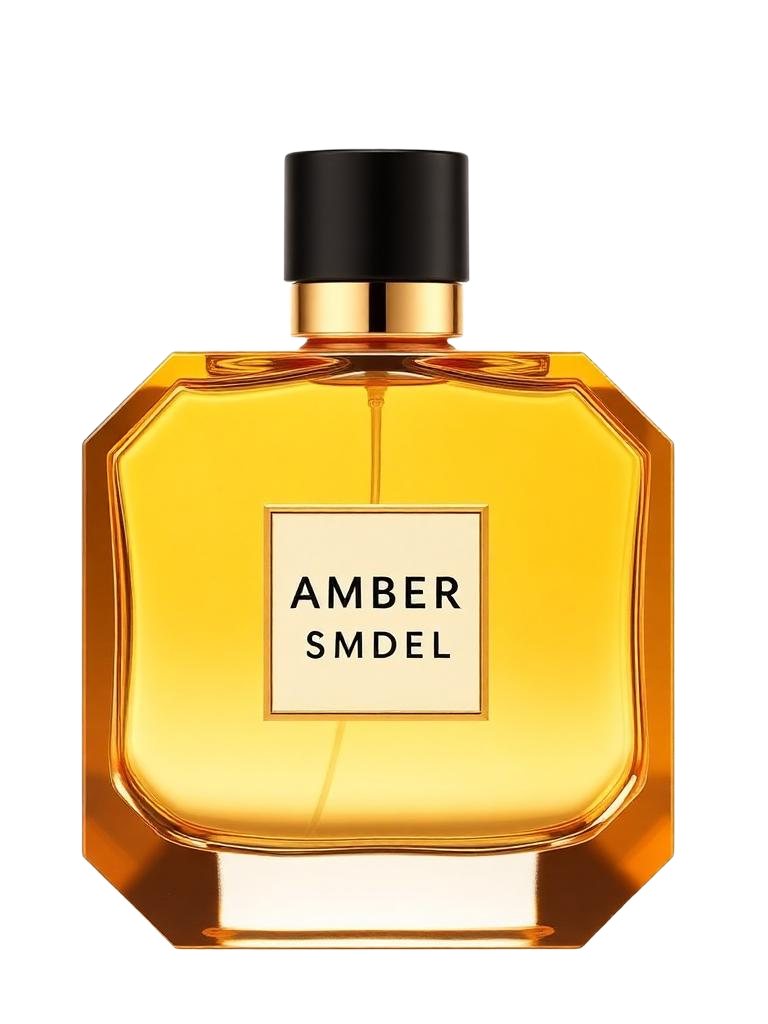
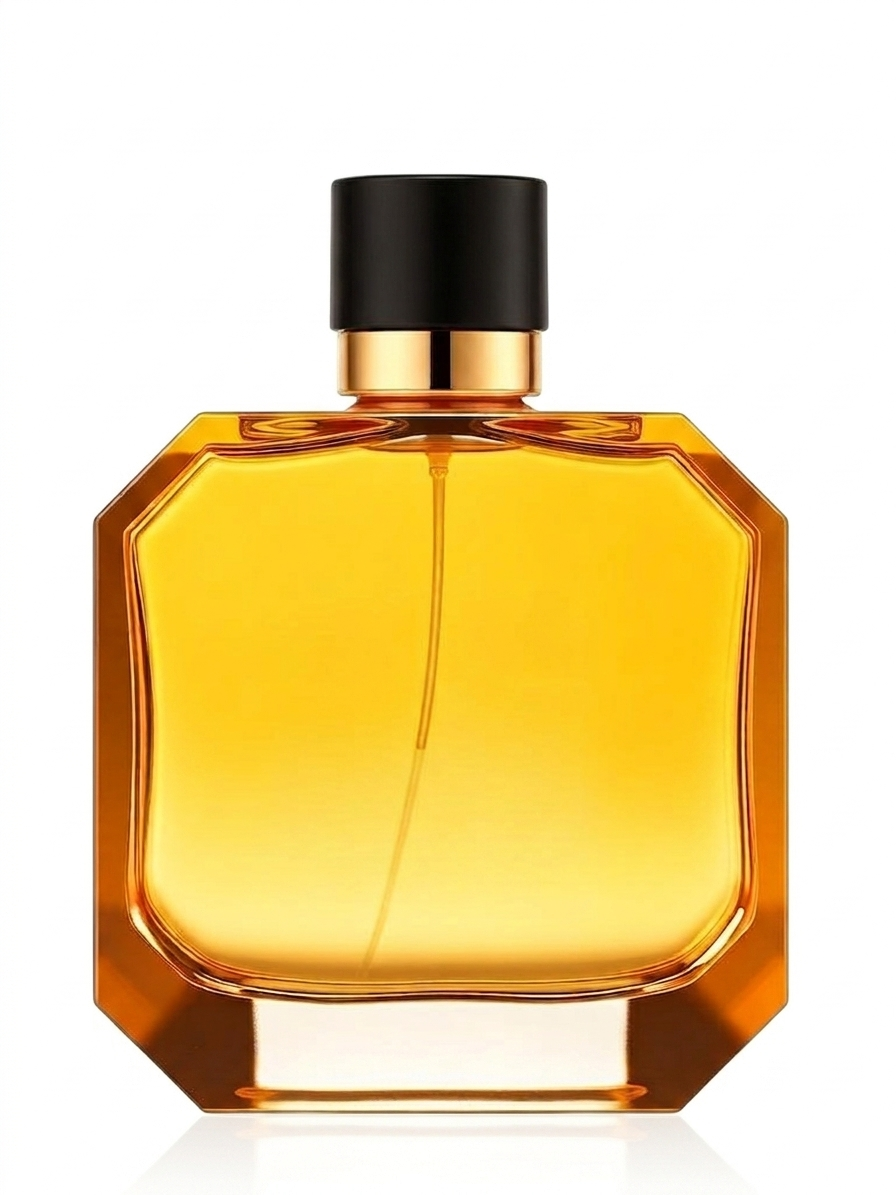
Remove WhatsApp from order buttons; swap About image to collection.png
- OrderForm: inline success state, no WhatsApp
- SpecialOffer: inline success state, button renamed to Commander
- parfum.$id: fix success message, remove MessageCircle icon
- About: replace offer image with collection.png

diff --git a/src/components/site/OrderForm.tsx b/src/components/site/OrderForm.tsx
@@ -1,18 +1,18 @@
 import { useEffect, useState } from "react";
 import { useQuery } from "@tanstack/react-query";
 import { motion } from "framer-motion";
-import { MessageCircle } from "lucide-react";
+import { CheckCircle2 } from "lucide-react";
 import { z } from "zod";
 import { fetchPerfumes, createOrder } from "@/lib/api";
 
 const baseSchema = z.object({
-  prenom: z.string().trim().min(2).max(50),
-  nom: z.string().trim().min(2).max(50),
-  ville: z.string().trim().min(2).max(80),
-  adresse: z.string().trim().min(5).max(200),
+  prenom:    z.string().trim().min(2).max(50),
+  nom:       z.string().trim().min(2).max(50),
+  ville:     z.string().trim().min(2).max(80),
+  adresse:   z.string().trim().min(5).max(200),
   telephone: z.string().trim().min(8).max(20).regex(/^[0-9+\s().-]+$/),
-  parfum: z.string().min(1),
-  quantite: z.coerce.number().int().min(1).max(99),
+  parfum:    z.string().min(1),
+  quantite:  z.coerce.number().int().min(1).max(99),
 });
 type Errors = Partial<Record<keyof z.infer<typeof baseSchema>, string>>;
 
@@ -23,6 +23,7 @@ export function OrderForm() {
     parfum: "", quantite: 1 as number | string,
   });
   const [errors, setErrors] = useState<Errors>({});
+  const [submitted, setSubmitted] = useState(false);
 
   useEffect(() => {
     if (!form.parfum && perfumes[0]) setForm((f) => ({ ...f, parfum: perfumes[0].name }));
@@ -54,10 +55,15 @@ export function OrderForm() {
         total: found ? found.price * d.quantite : null,
         type: "standard", notes: null,
       });
+      setSubmitted(true);
     } catch (err) {
-      console.error("Order insert failed:", err);
-      alert("Erreur DB: " + (err instanceof Error ? err.message : String(err)));
+      alert("Erreur : " + (err instanceof Error ? err.message : String(err)));
     }
+  };
+
+  const reset = () => {
+    setSubmitted(false);
+    setForm({ nom: "", prenom: "", ville: "", adresse: "", telephone: "", parfum: perfumes[0]?.name ?? "", quantite: 1 });
   };
 
   return (
@@ -68,36 +74,53 @@ export function OrderForm() {
           <h2 className="font-display text-5xl md:text-6xl mb-4">
             Passer <span className="italic text-gradient-gold">Commande</span>
           </h2>
-          <p className="text-muted-foreground">Remplissez le formulaire et commandez via WhatsApp en un clic.</p>
+          <p className="text-muted-foreground">Remplissez le formulaire et passez votre commande en un clic.</p>
         </motion.div>
 
-        <motion.form onSubmit={submit} noValidate initial={{ opacity: 0, y: 20 }} whileInView={{ opacity: 1, y: 0 }} viewport={{ once: true }}
-          className="glass gold-border rounded-3xl p-8 md:p-10 space-y-5">
-          <div className="grid md:grid-cols-2 gap-5">
-            <Field label="Prénom" value={form.prenom} onChange={handle("prenom")} error={errors.prenom} maxLength={50} />
-            <Field label="Nom" value={form.nom} onChange={handle("nom")} error={errors.nom} maxLength={50} />
-            <Field label="Ville" value={form.ville} onChange={handle("ville")} error={errors.ville} maxLength={80} />
-            <Field label="Téléphone" type="tel" value={form.telephone} onChange={handle("telephone")} error={errors.telephone} maxLength={20} />
-          </div>
-          <Field label="Adresse" value={form.adresse} onChange={handle("adresse")} error={errors.adresse} maxLength={200} />
-          <div className="grid md:grid-cols-3 gap-5">
-            <div className="md:col-span-2">
-              <label className="block text-xs tracking-widest uppercase text-primary mb-2">Parfum choisi</label>
-              <select value={form.parfum} onChange={handle("parfum")}
-                className="w-full bg-secondary/40 border border-primary/20 rounded-xl px-4 py-3 text-foreground outline-none focus:border-primary/60">
-                {perfumes.map((p) => (<option key={p.id} value={p.name}>{p.name} — {p.brand}</option>))}
-              </select>
-              {errors.parfum && <p className="mt-2 text-xs text-destructive">{errors.parfum}</p>}
-            </div>
-            <Field label="Quantité" type="number" min={1} max={99} value={String(form.quantite)} onChange={handle("quantite")} error={errors.quantite} />
-          </div>
+        <motion.div initial={{ opacity: 0, y: 20 }} whileInView={{ opacity: 1, y: 0 }} viewport={{ once: true }}
+          className="glass gold-border rounded-3xl p-8 md:p-10">
 
-          <button type="submit"
-            className="w-full flex items-center justify-center gap-2 py-4 rounded-full bg-gradient-gold text-primary-foreground font-medium tracking-wide shadow-gold hover:scale-[1.01] transition mt-3">
-            <MessageCircle className="w-5 h-5" />
-            Commander sur WhatsApp
-          </button>
-        </motion.form>
+          {submitted ? (
+            <div className="flex flex-col items-center gap-5 py-6 text-center">
+              <div className="flex items-center gap-3 glass gold-border rounded-2xl px-6 py-5 w-full">
+                <CheckCircle2 className="w-9 h-9 text-primary flex-shrink-0" />
+                <div className="text-left">
+                  <p className="font-display text-xl">Commande passée !</p>
+                  <p className="text-sm text-muted-foreground mt-0.5">Notre équipe vous contacte très bientôt.</p>
+                </div>
+              </div>
+              <button onClick={reset}
+                className="w-full py-3.5 rounded-full glass border border-primary/30 text-primary font-medium text-sm hover:bg-primary/10 transition">
+                Passer une autre commande
+              </button>
+            </div>
+          ) : (
+            <form onSubmit={submit} noValidate className="space-y-5">
+              <div className="grid md:grid-cols-2 gap-5">
+                <Field label="Prénom"    value={form.prenom}    onChange={handle("prenom")}    error={errors.prenom}    maxLength={50} />
+                <Field label="Nom"       value={form.nom}       onChange={handle("nom")}       error={errors.nom}       maxLength={50} />
+                <Field label="Ville"     value={form.ville}     onChange={handle("ville")}     error={errors.ville}     maxLength={80} />
+                <Field label="Téléphone" type="tel" value={form.telephone} onChange={handle("telephone")} error={errors.telephone} maxLength={20} />
+              </div>
+              <Field label="Adresse" value={form.adresse} onChange={handle("adresse")} error={errors.adresse} maxLength={200} />
+              <div className="grid md:grid-cols-3 gap-5">
+                <div className="md:col-span-2">
+                  <label className="block text-xs tracking-widest uppercase text-primary mb-2">Parfum choisi</label>
+                  <select value={form.parfum} onChange={handle("parfum")}
+                    className="w-full bg-secondary/40 border border-primary/20 rounded-xl px-4 py-3 text-foreground outline-none focus:border-primary/60">
+                    {perfumes.map((p) => (<option key={p.id} value={p.name}>{p.name} — {p.brand}</option>))}
+                  </select>
+                  {errors.parfum && <p className="mt-2 text-xs text-destructive">{errors.parfum}</p>}
+                </div>
+                <Field label="Quantité" type="number" min={1} max={99} value={String(form.quantite)} onChange={handle("quantite")} error={errors.quantite} />
+              </div>
+              <button type="submit"
+                className="w-full flex items-center justify-center gap-2 py-4 rounded-full bg-gradient-gold text-primary-foreground font-medium tracking-wide shadow-gold hover:scale-[1.01] transition mt-3">
+                Commander
+              </button>
+            </form>
+          )}
+        </motion.div>
       </div>
     </section>
   );

diff --git a/src/components/site/SpecialOffer.tsx b/src/components/site/SpecialOffer.tsx
@@ -1,7 +1,7 @@
 import { useMemo, useState } from "react";
 import { useQuery } from "@tanstack/react-query";
 import { motion } from "framer-motion";
-import { Truck, Gift, Sparkles, Check, X } from "lucide-react";
+import { Truck, Gift, Sparkles, Check, X, CheckCircle2 } from "lucide-react";
 import offerImg from "@/assets/offer-3parfums.jpeg";
 import { fetchPerfumes, fetchSetting, createOrder, type OfferSettings } from "@/lib/api";
 
@@ -15,6 +15,7 @@ export function SpecialOffer() {
   const [ville, setVille] = useState("");
   const [adresse, setAdresse] = useState("");
   const [tel, setTel] = useState("");
+  const [submitted, setSubmitted] = useState(false);
 
   const { data: perfumes = [] } = useQuery({ queryKey: ["perfumes"], queryFn: fetchPerfumes });
   const { data: offer } = useQuery({
@@ -50,7 +51,7 @@ export function SpecialOffer() {
         total: o.price, type: "offer_3", notes: "Offre 199 DH · testeur inclus",
       });
     } catch (err) { console.error(err); }
-    setOpen(false);
+    setSubmitted(true);
   };
 
   return (
@@ -123,37 +124,54 @@ export function SpecialOffer() {
                 <p className="text-sm text-muted-foreground mt-2">Livraison gratuite + testeur offert</p>
               </div>
 
-              <form onSubmit={submit} className="space-y-4">
-                {[
-                  { label: "Parfum 1", value: p1, set: setP1 },
-                  { label: "Parfum 2", value: p2, set: setP2 },
-                  { label: "Parfum 3", value: p3, set: setP3 },
-                ].map((f) => (
-                  <div key={f.label}>
-                    <label className="text-xs tracking-[0.15em] text-primary uppercase mb-1.5 block">{f.label}</label>
-                    <select required value={f.value} onChange={(e) => f.set(e.target.value)}
-                      className="w-full px-4 py-3 rounded-xl bg-noir border border-primary/20 text-foreground focus:border-primary focus:outline-none transition">
-                      <option value="">— Choisir un parfum —</option>
-                      {sorted.map((p) => (
-                        <option key={p.id} value={`${p.name} (${p.brand})`}>{p.brand} — {p.name}</option>
-                      ))}
-                    </select>
+              {submitted ? (
+                <div className="flex flex-col items-center gap-5 py-4 text-center">
+                  <div className="flex items-center gap-3 glass gold-border rounded-2xl px-6 py-5 w-full">
+                    <CheckCircle2 className="w-9 h-9 text-primary flex-shrink-0" />
+                    <div className="text-left">
+                      <p className="font-display text-xl">Commande passée !</p>
+                      <p className="text-sm text-muted-foreground mt-0.5">Notre équipe vous contacte très bientôt.</p>
+                    </div>
                   </div>
-                ))}
-
-                <div className="grid grid-cols-2 gap-4 pt-2">
-                  <Field label="Prénom" value={prenom} onChange={setPrenom} />
-                  <Field label="Nom" value={nom} onChange={setNom} />
-                  <Field label="Ville" value={ville} onChange={setVille} />
-                  <Field label="Téléphone" value={tel} onChange={setTel} type="tel" />
+                  <button
+                    onClick={() => { setOpen(false); setSubmitted(false); setP1(""); setP2(""); setP3(""); setNom(""); setPrenom(""); setVille(""); setAdresse(""); setTel(""); }}
+                    className="w-full py-3.5 rounded-full glass border border-primary/30 text-primary font-medium text-sm hover:bg-primary/10 transition">
+                    Fermer
+                  </button>
                 </div>
-                <Field label="Adresse" value={adresse} onChange={setAdresse} />
+              ) : (
+                <form onSubmit={submit} className="space-y-4">
+                  {[
+                    { label: "Parfum 1", value: p1, set: setP1 },
+                    { label: "Parfum 2", value: p2, set: setP2 },
+                    { label: "Parfum 3", value: p3, set: setP3 },
+                  ].map((f) => (
+                    <div key={f.label}>
+                      <label className="text-xs tracking-[0.15em] text-primary uppercase mb-1.5 block">{f.label}</label>
+                      <select required value={f.value} onChange={(e) => f.set(e.target.value)}
+                        className="w-full px-4 py-3 rounded-xl bg-noir border border-primary/20 text-foreground focus:border-primary focus:outline-none transition">
+                        <option value="">— Choisir un parfum —</option>
+                        {sorted.map((p) => (
+                          <option key={p.id} value={`${p.name} (${p.brand})`}>{p.brand} — {p.name}</option>
+                        ))}
+                      </select>
+                    </div>
+                  ))}
 
-                <button type="submit" disabled={!valid}
-                  className="w-full mt-2 px-8 py-4 rounded-full bg-gradient-gold text-primary-foreground font-medium tracking-wide shadow-gold hover:scale-[1.01] transition-transform disabled:opacity-50 disabled:cursor-not-allowed disabled:hover:scale-100">
-                  Commander sur WhatsApp · {o.price} DH
-                </button>
-              </form>
+                  <div className="grid grid-cols-2 gap-4 pt-2">
+                    <Field label="Prénom" value={prenom} onChange={setPrenom} />
+                    <Field label="Nom" value={nom} onChange={setNom} />
+                    <Field label="Ville" value={ville} onChange={setVille} />
+                    <Field label="Téléphone" value={tel} onChange={setTel} type="tel" />
+                  </div>
+                  <Field label="Adresse" value={adresse} onChange={setAdresse} />
+
+                  <button type="submit" disabled={!valid}
+                    className="w-full mt-2 px-8 py-4 rounded-full bg-gradient-gold text-primary-foreground font-medium tracking-wide shadow-gold hover:scale-[1.01] transition-transform disabled:opacity-50 disabled:cursor-not-allowed disabled:hover:scale-100">
+                    Commander · {o.price} DH
+                  </button>
+                </form>
+              )}
             </div>
           </motion.div>
         </div>

diff --git a/src/routes/parfum.$id.tsx b/src/routes/parfum.$id.tsx
@@ -2,7 +2,7 @@ import { createFileRoute, Link, notFound } from "@tanstack/react-router";
 import { useQuery } from "@tanstack/react-query";
 import { motion } from "framer-motion";
 import { useState } from "react";
-import { ArrowLeft, MessageCircle, Tag, User, Sparkles, Star, Minus, Plus, CheckCircle2 } from "lucide-react";
+import { ArrowLeft, Tag, User, Sparkles, Star, Minus, Plus, CheckCircle2 } from "lucide-react";
 import { fetchPerfumes, createOrder, type Perfume } from "@/lib/api";
 import { Navbar } from "@/components/site/Navbar";
 import { AnnouncementBar } from "@/components/site/AnnouncementBar";
@@ -229,7 +229,7 @@ function ProductDetail({ perfume }: { perfume: Perfume }) {
                   <CheckCircle2 className="w-8 h-8 text-primary flex-shrink-0" />
                   <div>
                     <p className="font-display text-xl text-foreground">Commande passée !</p>
-                    <p className="text-sm text-muted-foreground mt-0.5">WhatsApp s'ouvre — notre équipe vous confirme sous peu.</p>
+                    <p className="text-sm text-muted-foreground mt-0.5">Votre commande a bien été reçue — notre équipe vous contacte sous peu.</p>
                   </div>
                 </div>
                 <Link
@@ -260,8 +260,7 @@ function ProductDetail({ perfume }: { perfume: Perfume }) {
                   disabled={out || !form.name || !form.phone || !form.city || !form.address}
                   className="w-full flex items-center justify-center gap-2 py-4 rounded-full bg-gradient-gold text-primary-foreground font-medium tracking-wide shadow-gold hover:scale-[1.01] transition disabled:opacity-40 disabled:cursor-not-allowed disabled:hover:scale-100 mt-1"
                 >
-                  <MessageCircle className="w-5 h-5" />
-                  Confirmer la commande · {totalPrice} DH
+                  Commander · {totalPrice} DH
                 </button>
               </form>
             )}

diff --git a/src/components/site/About.tsx b/src/components/site/About.tsx
@@ -1,6 +1,6 @@
 import { motion } from "framer-motion";
 import { Sparkles, Award, Leaf, HeartHandshake } from "lucide-react";
-import offerImg from "@/assets/offer-3parfums.jpeg";
+import collectionImg from "@/assets/collection.png";
 
 const PILLARS = [
   { icon: Award, label: "Qualité Premium", desc: "Inspiré des grandes maisons" },
@@ -24,7 +24,7 @@ export function About() {
           >
             <div className="relative rounded-3xl overflow-hidden glass gold-border h-[380px] md:h-[480px]">
               <img
-                src={offerImg}
+                src={collectionImg}
                 alt="Collection Unique Parfum"
                 className="w-full h-full object-cover object-center opacity-80"
               />